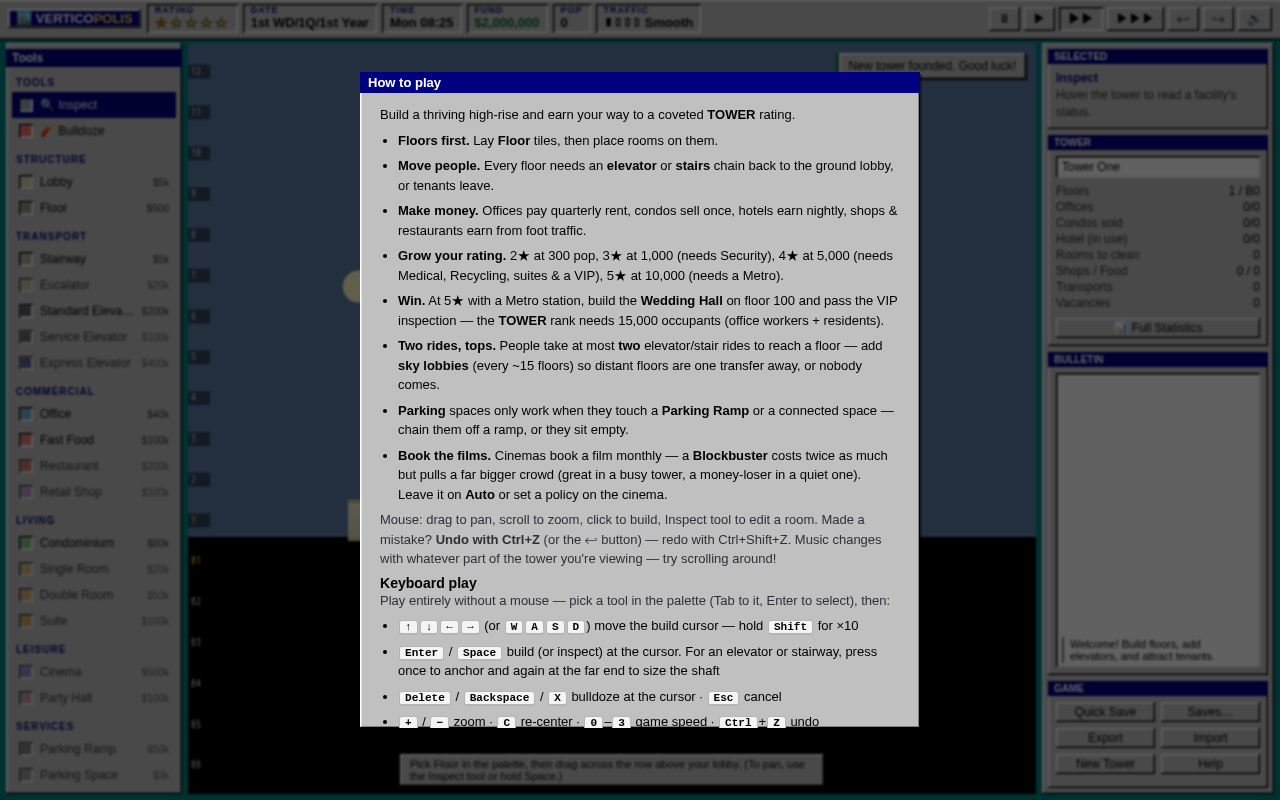
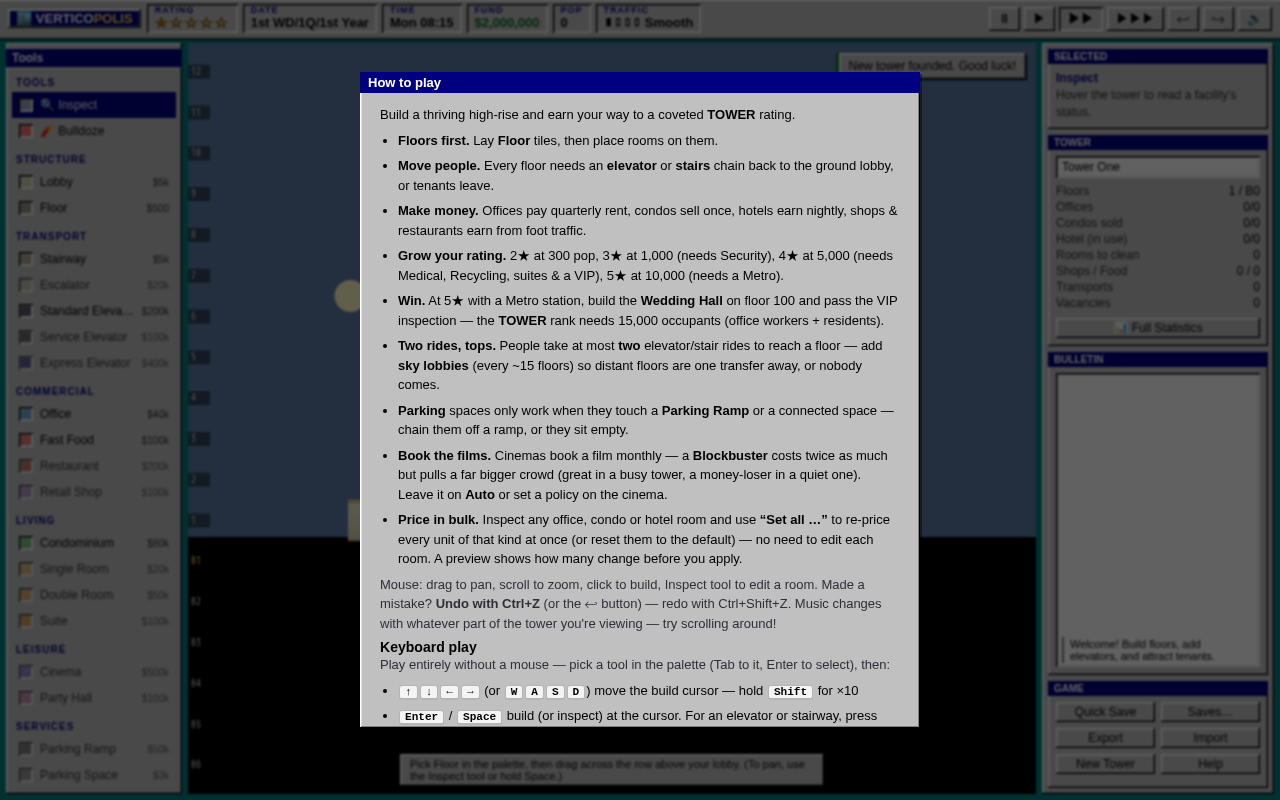
Batch pricing review round-2 + Help docs + dialog screenshot
Review fixes:
- computeBatch treats an override equal to the kind default as default-priced too,
  so a legacy save (or older adjustRent) that stored the default explicitly isn't
  mis-counted as custom (onlyDefaultPriced).
- Batch apply is now undoable: capture/commit the undo snapshot around the async
  applyRentBatch (the modal applies after handleEditAction returns).
- The dialog normalizes the typed price to the snapped value on commit (blur), so
  the input never shows a number different from what preview/apply use.

Docs/UX:
- Help dialog documents batch pricing ("Price in bulk. …Set all…").
- New docs/screenshots/10-batch-pricing.png of the dialog; regenerated 02-help.

Tests pass; typecheck + lint clean.

Claude-Session: https://claude.ai/code/session_019NA2c4AsAgUYb2ST9bkXi8

Changed region(s): [[0.2812, 0.625, 0.6875, 0.9375], [0.25, 0.3438, 0.2812, 0.4062]]

diff --git a/src/main.ts b/src/main.ts
@@ -928,7 +928,14 @@ class GameApp {
       { kind, kindLabel: FACILITIES[kind].name, band },
       {
         preview: (target, opts) => this.sim.previewRentBatch(kind, target, opts)!,
-        apply: (target, opts) => this.sim.applyRentBatch(kind, target, opts)!,
+        apply: (target, opts) => {
+          // Capture BEFORE the mutation (the dialog applies asynchronously, so the
+          // synchronous captureUndo in handleEditAction is stale) → an undoable batch.
+          this.captureUndo("Set prices");
+          const r = this.sim.applyRentBatch(kind, target, opts)!;
+          this.commitUndo();
+          return r;
+        },
         onApplied: (summary) => {
           this.audio.sfx("build");
           this.ui.toast(summary, "good");

diff --git a/src/ui/UI.ts b/src/ui/UI.ts
@@ -517,6 +517,12 @@ export class UI {
     box.querySelector('[data-bp="inc"]')!.addEventListener("click", () => step(1));
     box.querySelector('[data-bp="dec"]')!.addEventListener("click", () => step(-1));
     priceEl.addEventListener("input", refresh);
+    // On commit (blur/Enter), normalize the field to the snapped value it will
+    // actually apply, so the input never shows a number different from the result.
+    priceEl.addEventListener("change", () => {
+      if (mode() !== "default") priceEl.value = String(snap(Number(priceEl.value) || 0));
+      refresh();
+    });
     onlyEl.addEventListener("change", refresh);
     box.querySelectorAll('input[name="bp-mode"]').forEach((el) => el.addEventListener("change", refresh));
     box.querySelector('[data-act="close"]')!.addEventListener("click", () => this.closeModal());
@@ -649,6 +655,7 @@ export class UI {
         <li><b>Two rides, tops.</b> People take at most <b>two</b> elevator/stair rides to reach a floor — add <b>sky lobbies</b> (every ~15 floors) so distant floors are one transfer away, or nobody comes.</li>
         <li><b>Parking</b> spaces only work when they touch a <b>Parking Ramp</b> or a connected space — chain them off a ramp, or they sit empty.</li>
         <li><b>Book the films.</b> Cinemas book a film monthly — a <b>Blockbuster</b> costs twice as much but pulls a far bigger crowd (great in a busy tower, a money-loser in a quiet one). Leave it on <b>Auto</b> or set a policy on the cinema.</li>
+        <li><b>Price in bulk.</b> Inspect any office, condo or hotel room and use <b>“Set all …”</b> to re-price every unit of that kind at once (or reset them to the default) — no need to edit each room. A preview shows how many change before you apply.</li>
       </ul>
       <p style="color:var(--muted)">Mouse: drag to pan, scroll to zoom, click to build, Inspect tool to edit a room. Made a mistake? <b>Undo with Ctrl+Z</b> (or the ↩ button) — redo with Ctrl+Shift+Z. Music changes with whatever part of the tower you're viewing — try scrolling around!</p>
       <h3>Keyboard play</h3>

diff --git a/src/engine/Simulation.ts b/src/engine/Simulation.ts
@@ -874,7 +874,10 @@ export class Simulation implements SimContext {
         r.skippedSold++;
         continue;
       }
-      if (onlyDefault && u.rent !== undefined) {
+      // Treat an override equal to the kind default as default-priced too, so a
+      // legacy save (or older adjustRent) that stored the default explicitly isn't
+      // mis-counted as custom.
+      if (onlyDefault && u.rent !== undefined && u.rent !== cfg.default) {
         r.skippedCustom++;
         continue;
       }